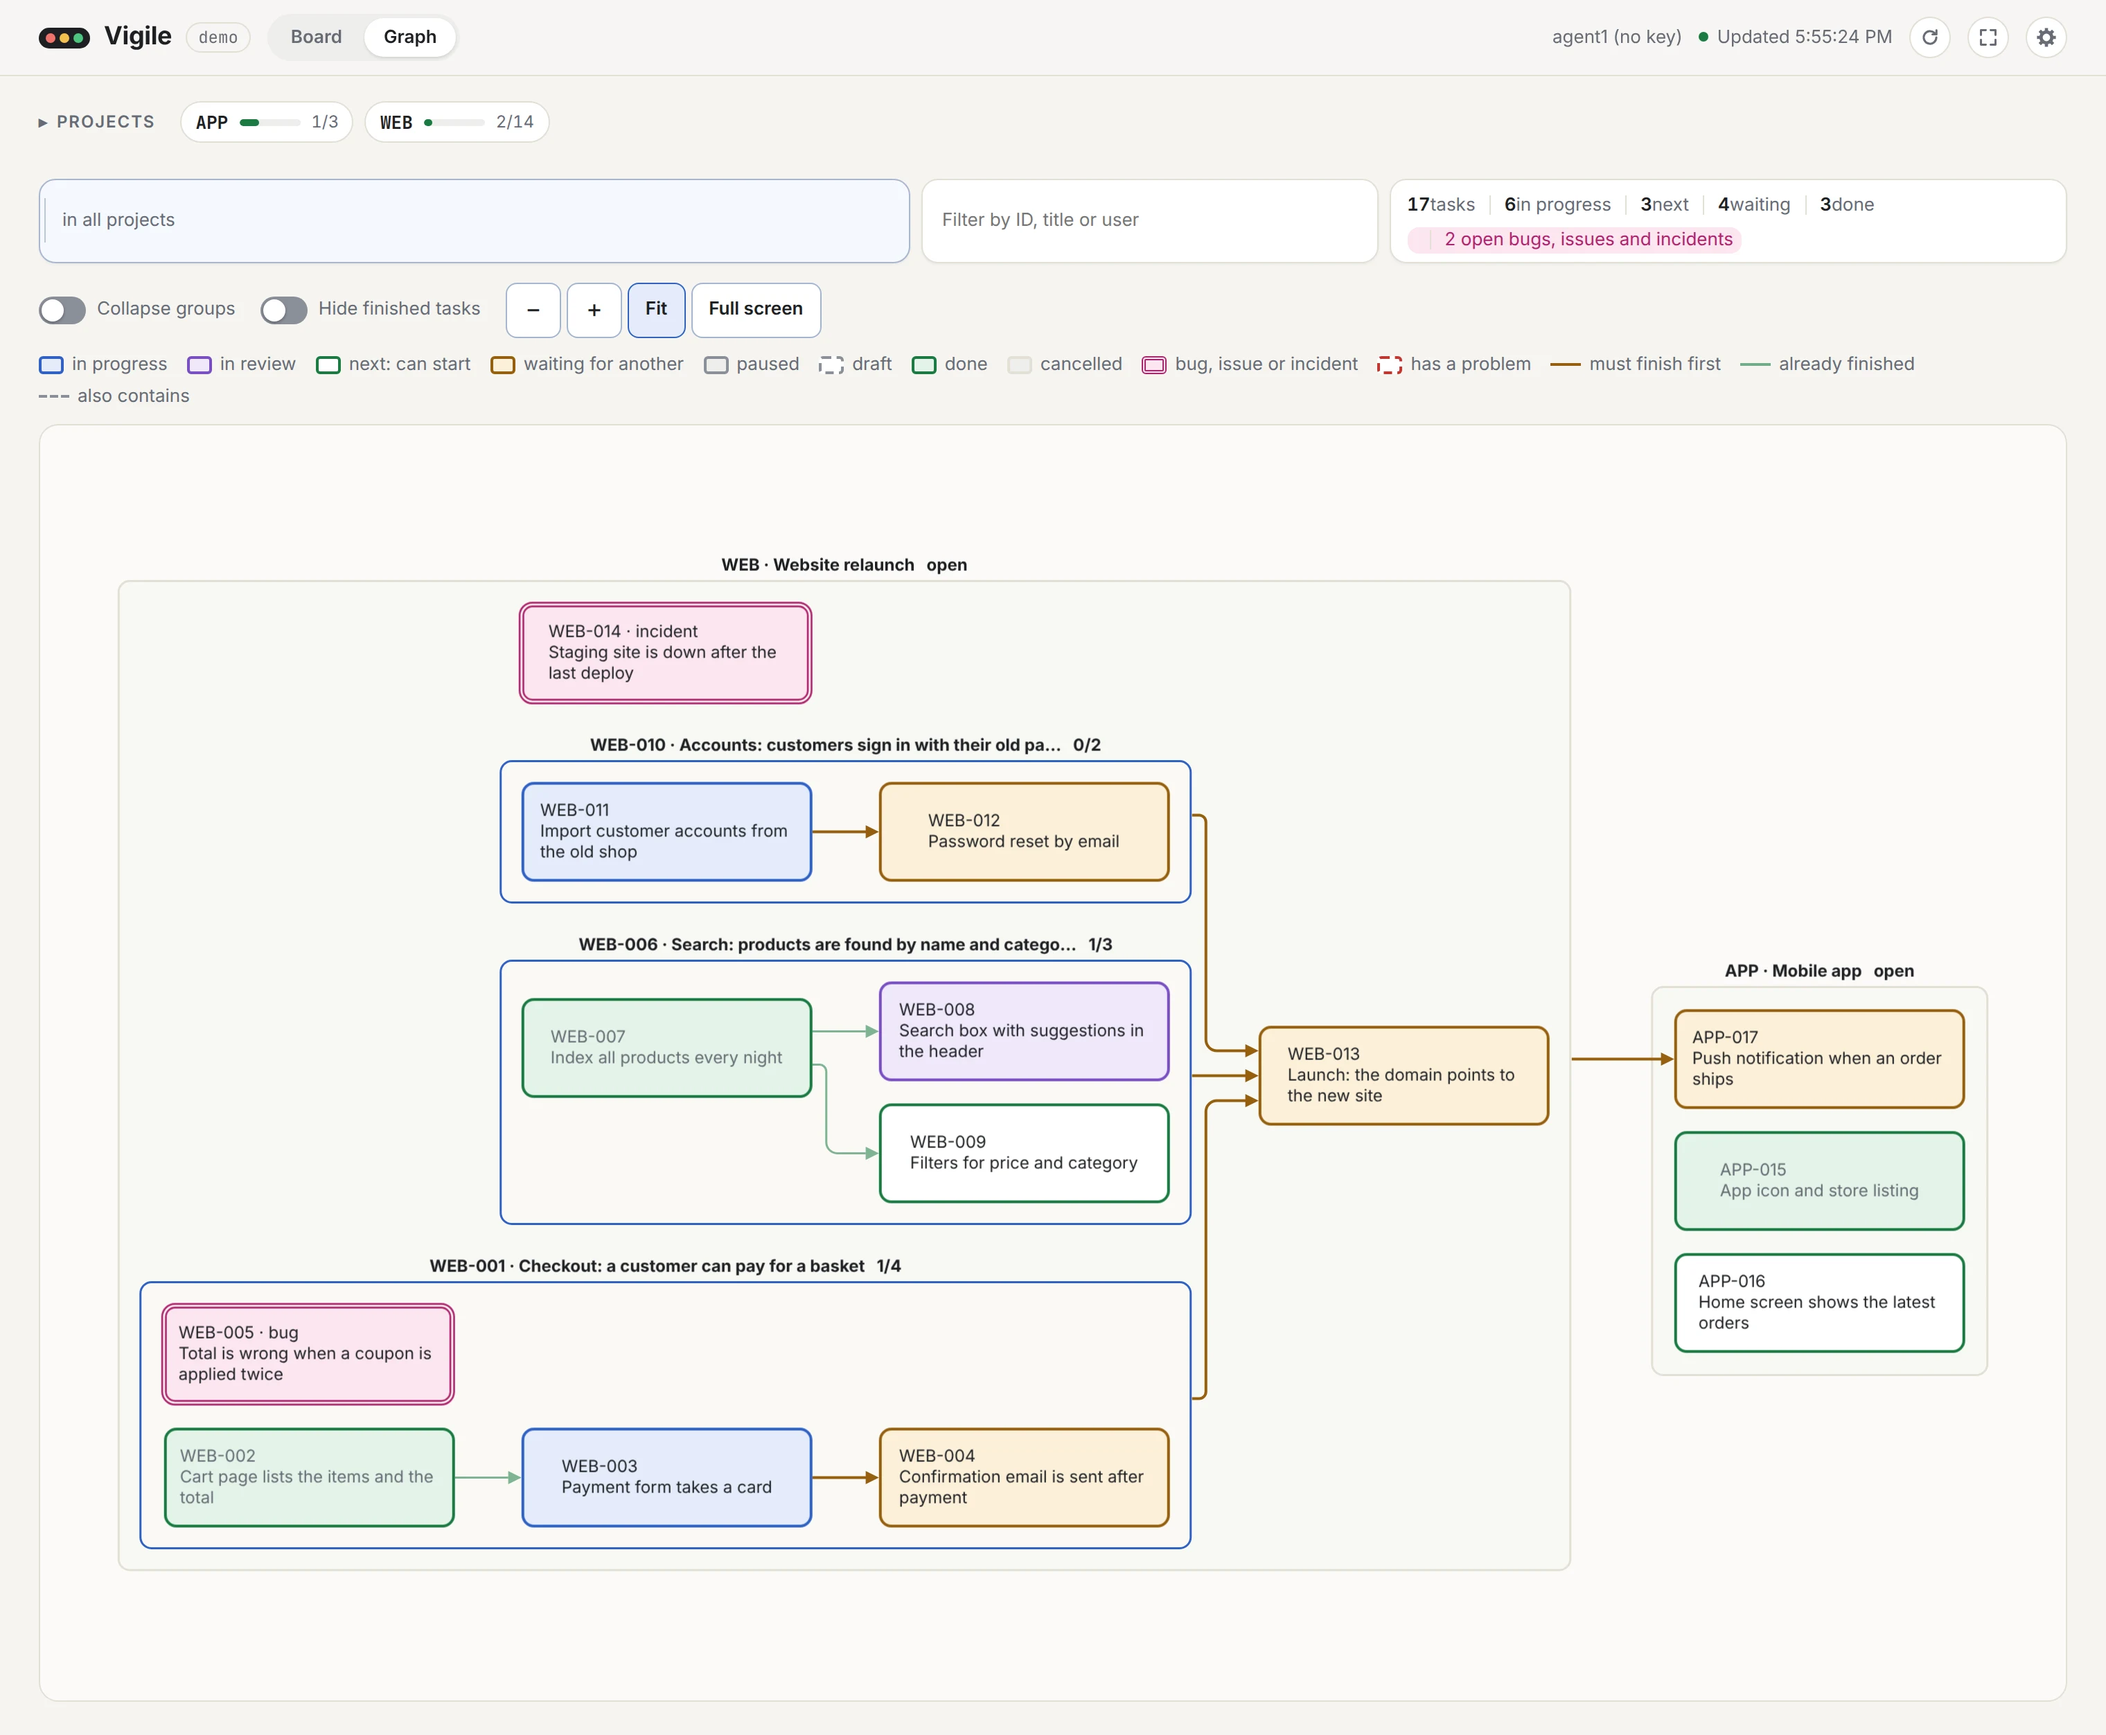
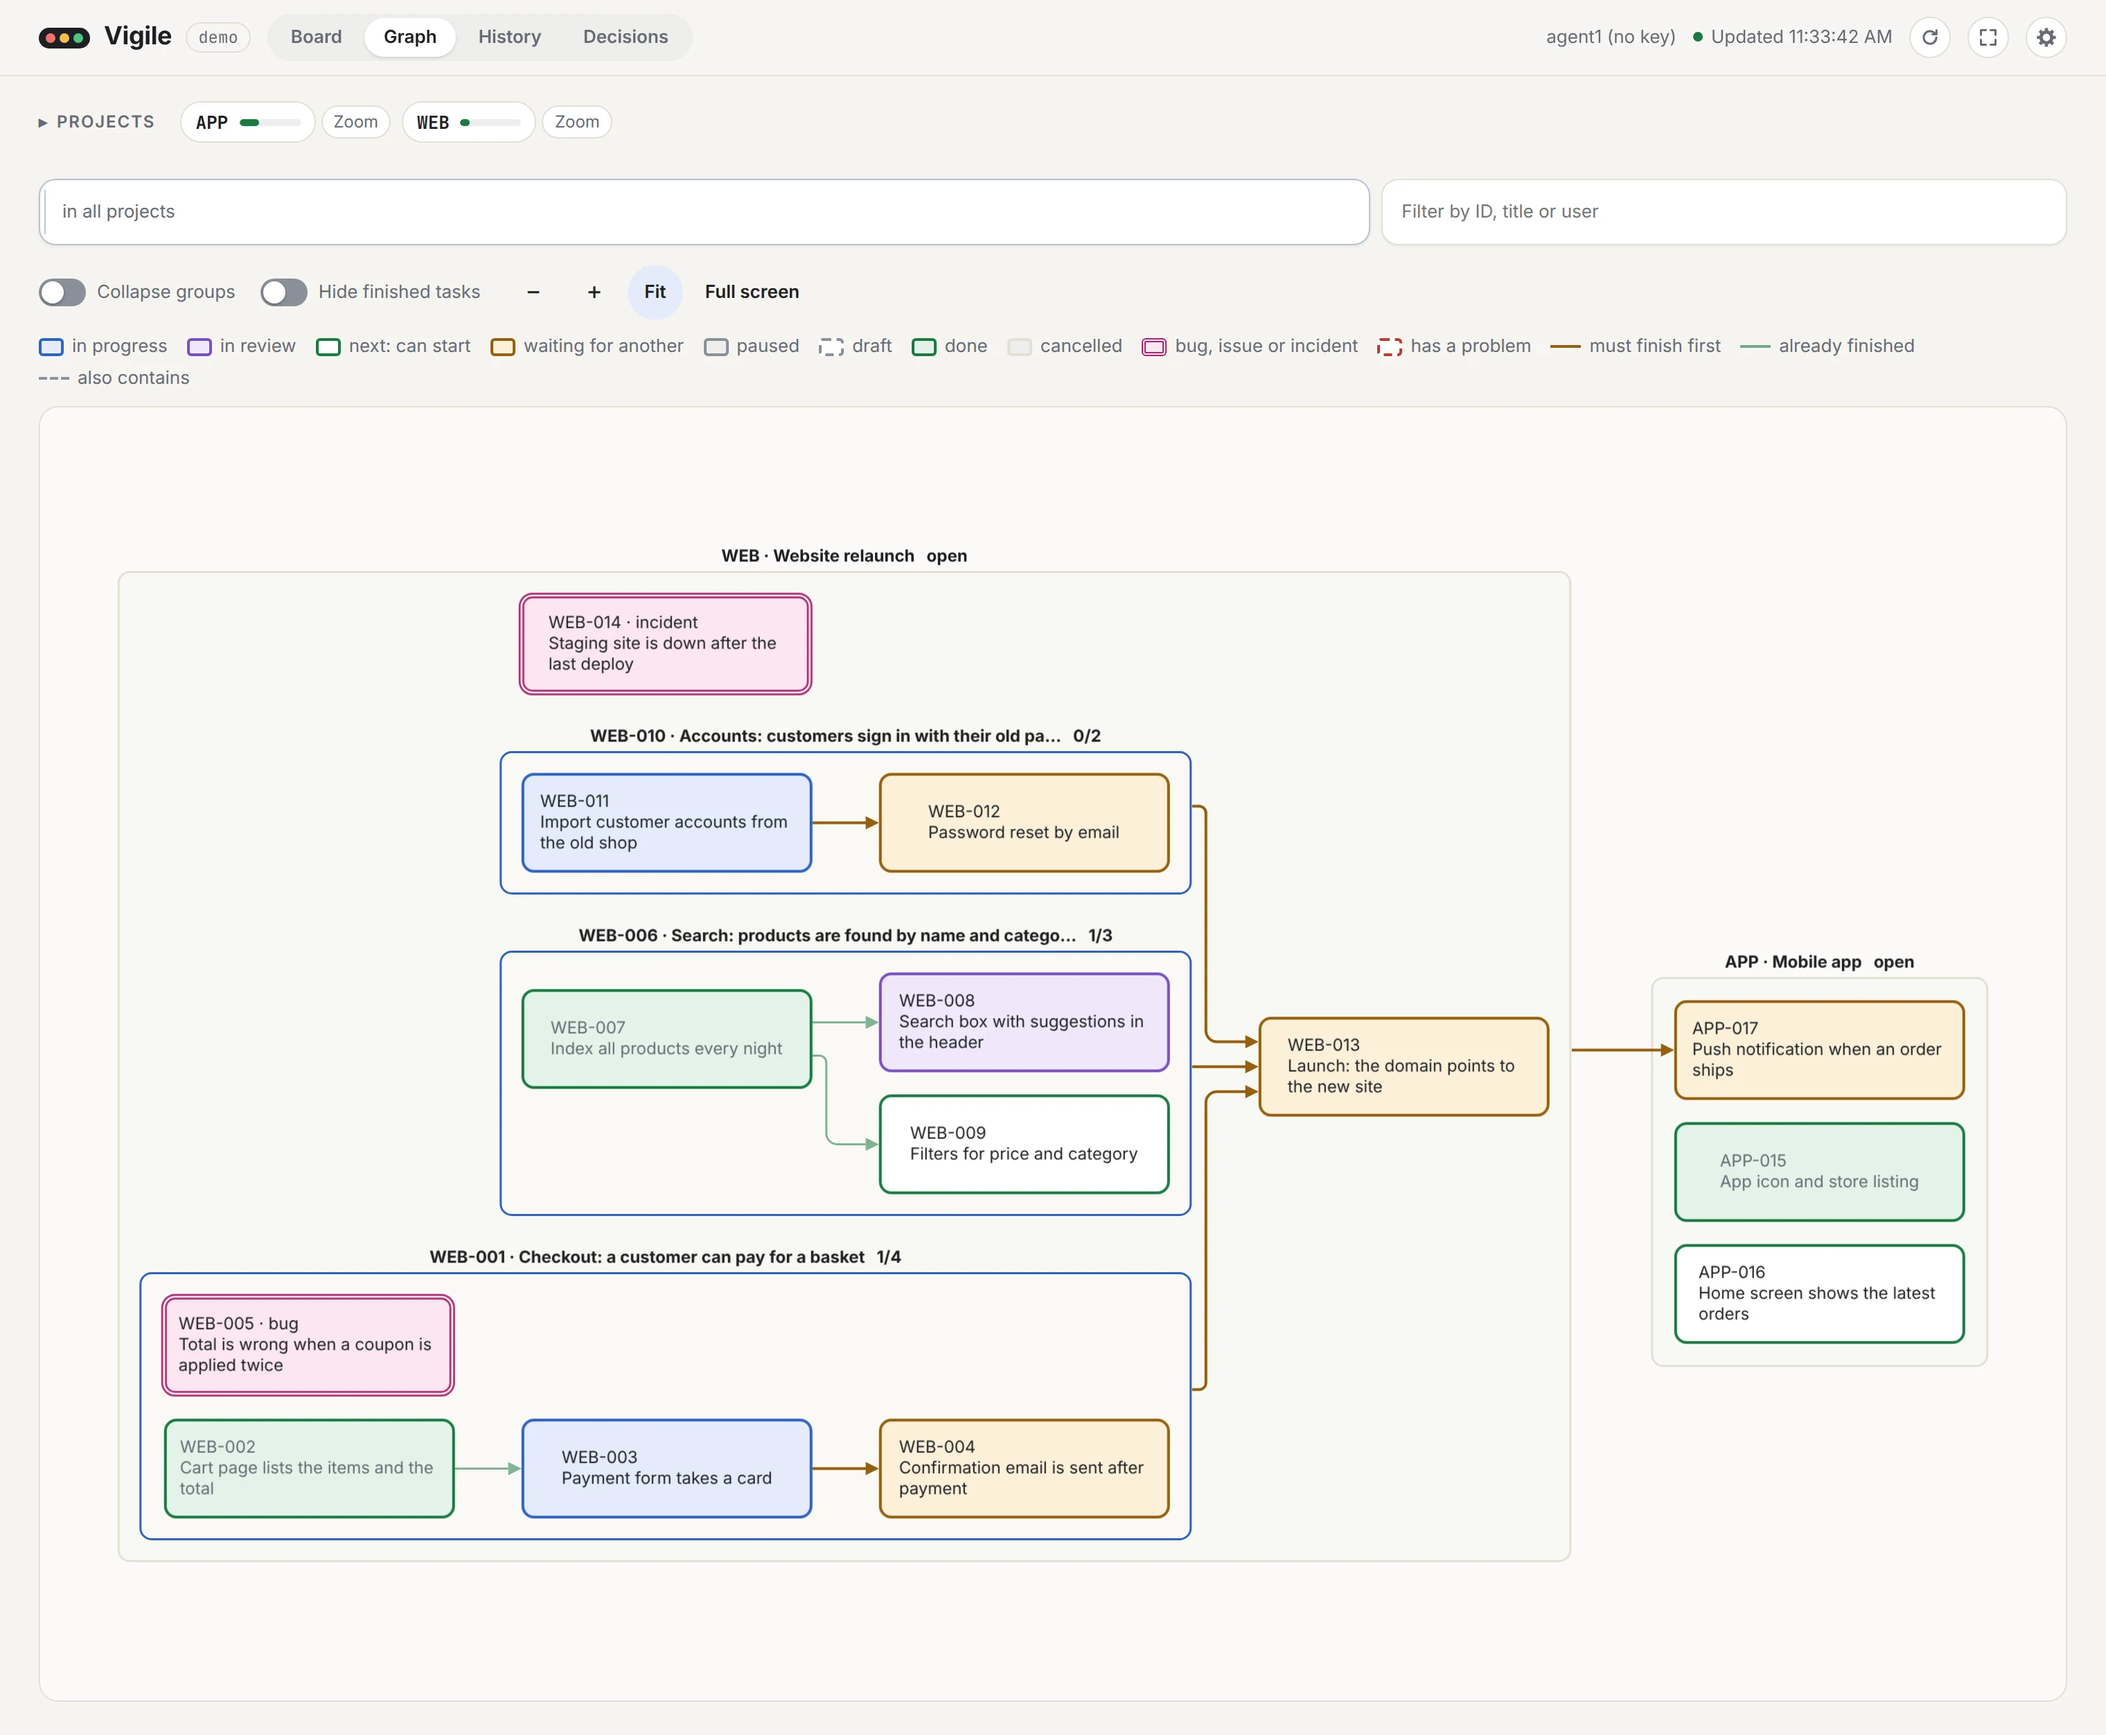
Say what Vigile is for in the README, and show the page as it is
The opening says what the plan is for: agents record and track their own
work in it, and a person watches it in one place, from the top or as deep
as the work is nested, sees what the plan flags, and steers by priority.
"When you'd use it" gains agents in several sessions or on several
machines, steering by priority, and several projects, linked or not; "What
you get" says that the plan is a graph and not a tree.

Every picture is taken again from the page as it is now, with the board
toolbar, the zoom controls and the counts. Two are new: the board at its
top level, where each group is one card with its progress, and History.

diff --git a/README.md b/README.md
@@ -3,13 +3,19 @@
 [![CLI: vigile](https://img.shields.io/badge/CLI-vigile-2f62c4)](#the-command-line-and-the-http-api)
 [![MCP: streamable HTTP](https://img.shields.io/badge/MCP-streamable_HTTP-7a4fc4)](#what-an-agent-does)
 [![HTTP API: JSON](https://img.shields.io/badge/HTTP_API-JSON-1f8a4c)](#the-command-line-and-the-http-api)
-[![Web UI: board and graph](https://img.shields.io/badge/Web_UI-board_and_graph-b7791f)](#the-web-page)
+[![Web UI: board, graph and history](https://img.shields.io/badge/Web_UI-board%2C_graph_and_history-b7791f)](#the-web-page)
 
-Vigile keeps the plan that you and your AI agents work from. It stores
-projects, tasks and the links between them, works out what can be started next,
-and refuses a change that would leave the plan inconsistent. Agents reach it
-over MCP, you watch it in a browser, and scripts use the HTTP API or the command
-line: all of them see the same plan and follow the same rules.
+Vigile keeps the plan that your AI agents work from, where you can see it.
+Agents record and track their own work in it: what they take on, what they
+finish, what they find on the way. You watch all of it in one place, from the
+top or as deep as the work is nested, see what the plan flags, and steer by
+priority.
+
+It stores projects, tasks and the links between them, works out what can be
+started next, and refuses a change that would leave the plan inconsistent.
+Agents reach it over MCP, you watch it in a browser, and scripts use the HTTP
+API or the command line: all of them see the same plan and follow the same
+rules.
 
 You run it yourself, on your own machine: one Node.js process and one SQLite
 file, with no account anywhere. It listens on `127.0.0.1` only until you decide
@@ -35,6 +41,13 @@ build it and serve it on your machine: `pnpm build && node website/build.mjs && 
 
 ## When you'd use it
 
+- **Your agents run in different sessions, or on different machines, and you
+  want one view of them.** Every agent reports to the same service, from this
+  machine or from [another one](#how-do-i-reach-it-from-another-machine).
+  Give [each agent a user and a key of its own](#several-agents-one-plan), and
+  the board shows what each has in progress, and History what each did and
+  when. Agents that share a user, as all do without a key, cannot be told
+  apart.
 - **More than one agent is working, and they must not pick the same task.**
   Each agent asks for what can start now, marks a task as in progress when it
   really starts, and another agent is refused while it is in progress or
@@ -47,7 +60,19 @@ build it and serve it on your machine: `pnpm build && node website/build.mjs && 
   the second back until the first is finished. Nobody has to remember it.
 - **You want to see what is going on without asking.** A board and a graph in a
   browser show what is in progress, what is next, what is waiting and why, from
-  a desktop or a phone.
+  a desktop or a phone. Zoom out and each area of the work is one card with its
+  progress; zoom into a project, a group, or a group inside a group for the
+  detail.
+- **You want to steer without interrupting anyone.** Raise the priority of a
+  task or of a whole area in the page. `list_next_tasks` lists the work an
+  agent can start, which is open, has nothing unfinished in the way and is
+  assigned to that agent or to nobody, and orders it by priority from the
+  outermost group down to the task. Raising an area moves the work that can
+  start inside it ahead of the areas below it; raising a task moves it ahead
+  within its group.
+- **You run several projects, linked or not.** A task can wait for a task, or
+  for a whole project, elsewhere in the plan; projects that have nothing to do
+  with each other sit side by side.
 - **Bugs found on the way should not get lost.** An agent records a bug, an
   issue or an incident as its own item, in the feature it affects, and it stands
   out from planned work.
@@ -65,6 +90,9 @@ build it and serve it on your machine: `pnpm build && node website/build.mjs && 
 - **Groups, as flat or as deep as the work.** A task that contains tasks is a
   group: a feature, an epic, a release. Groups hold groups, each reports its
   progress, and every list can show the top level or one group.
+- **A graph, not a tree.** A task can sit in several groups, also in a group of
+  another project, and wait for work anywhere in the plan. The same work can be
+  organised and looked at in more than one way.
 - **Refusals that say what to do.** A change that breaks a rule is refused with
   what is in the way and the actions that would resolve it.
   An unchanged status or an item that is already restored needs no change:
@@ -79,9 +107,10 @@ build it and serve it on your machine: `pnpm build && node website/build.mjs && 
 - **A guide agents can read.** `get_guide` shows the ways to organise work, the
   routine for a task, and complete examples. The tests run every call the
   examples show.
-- **A web page for reading and steering.** A board by state, a graph of what
-  waits for what, a panel for each item, an address for every view and item,
-  and controls in a task's panel to raise or lower its priority.
+- **A web page for reading and steering.** A board by state that zooms from the
+  top level into any group, a graph of what waits for what, a history of
+  changes, a panel for each item, an address for every view and item, and
+  controls in a task's panel to raise or lower its priority.
 - **History.** Who changed what and when, for every item, and every status a
   task went through. Created and completed work is easy to spot, with the time
   from creation to completion in the feed and task details. Filter status
@@ -258,6 +287,8 @@ the task appears in `list_next_tasks`.
 
 ![The graph: a box for each project and each group, tasks coloured by state, and arrows from each task to the ones that wait for it](images/graph.webp)
 
+![History: filters for text, item kind, event, actor, status and dates, then the changes of the plan, newest first, each with what was done, by whom and when](images/history.webp)
+
 The graph's box reaches the bottom of the window, and "Full screen" gives the
 graph the whole screen; Escape brings the page back.
 
@@ -311,6 +342,8 @@ while it is read, it is read again, and an item that goes on changing is shown
 by itself, with a note that its further pages are not shown.
 
 ![A task open in the panel: its state, description, reason, links grouped by kind, and details](images/task.webp)
+
+![The board at its top level: each group is one card with its progress, what is in progress and waiting inside it, its open bugs, and a button to zoom in](images/overview.webp)
 
 The board can be zoomed out for a high-level view. It opens with every task
 shown. One compact, framed surface holds the minus, level, plus, current
